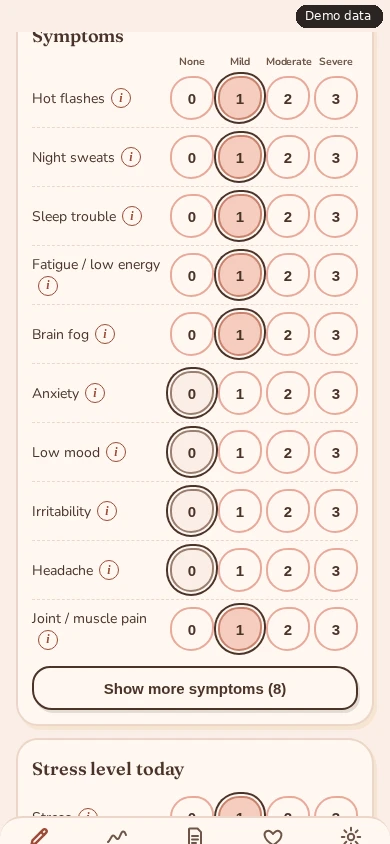
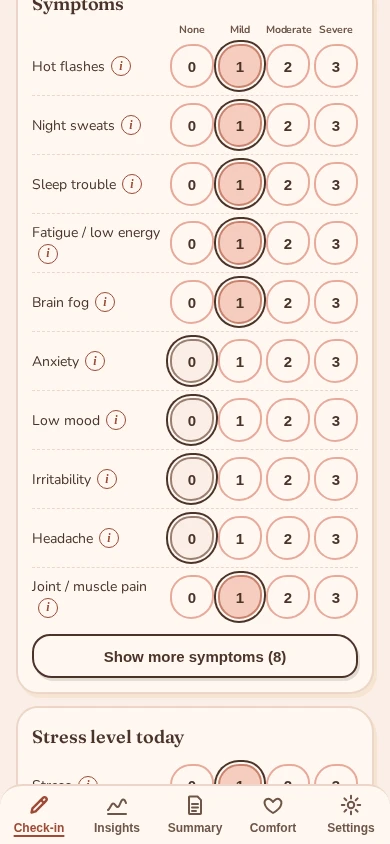
Keep a single page-level demo badge per marketing image

Changed region(s): [[0.0308, 0.0, 0.9846, 1.0], [0.0308, 0.0, 0.0615, 0.0308]]

diff --git a/sw.js b/sw.js
@@ -1,9 +1,9 @@
-// Root service worker, retired in peri-v34 (Nov 2026). The app moved to /app/ (its own SW, scope /app/).
+// Root service worker, retired in peri-v35 (Nov 2026). The app moved to /app/ (its own SW, scope /app/).
 // Older installs registered this file with scope "/" and would keep serving the old app over the landing page.
 // This version: takes over at once, deletes old root app caches, unregisters itself, and reloads open windows
 // so they get the network copy (landing page, which sends home-screen launches on to /app/).
 // It never touches localStorage, so her entries (key periTracker.v1, same origin) are untouched.
-const KEEP=['peri-v34'];// the /app/ SW's cache; nights-*/strong-* are not peri-* so untouched
+const KEEP=['peri-v35'];// the /app/ SW's cache; nights-*/strong-* are not peri-* so untouched
 self.addEventListener('install',()=>self.skipWaiting());
 self.addEventListener('activate',e=>{e.waitUntil((async()=>{
  const k=await caches.keys();await Promise.all(k.filter(x=>x.startsWith('peri-')&&!KEEP.includes(x)).map(x=>caches.delete(x)));

diff --git a/app/sw.js b/app/sw.js
@@ -1,4 +1,4 @@
-const C='peri-v34',A=['./','index.html','manifest.webmanifest','icon-192.png','icon-512.png','icon-512-maskable.png','icon-180.png','../privacy.html','../health-data.html','../terms.html','../accessibility.html','fonts/fraunces-latin.woff2','fonts/nunito-latin.woff2'];
+const C='peri-v35',A=['./','index.html','manifest.webmanifest','icon-192.png','icon-512.png','icon-512-maskable.png','icon-180.png','../privacy.html','../health-data.html','../terms.html','../accessibility.html','fonts/fraunces-latin.woff2','fonts/nunito-latin.woff2'];
 self.addEventListener('install',e=>{e.waitUntil(caches.open(C).then(c=>c.addAll(A)))});
 self.addEventListener('message',e=>{if(e.data&&e.data.type==='SKIP_WAITING')self.skipWaiting()});
 self.addEventListener('activate',e=>{e.waitUntil(caches.keys().then(k=>Promise.all(k.filter(x=>x.startsWith('peri-')&&x!==C).map(x=>caches.delete(x)))));self.clients.claim()});

diff --git a/tests/android_header_test.py b/tests/android_header_test.py
@@ -13,6 +13,8 @@ try:
    page=b.new_page(viewport={'width':width,'height':915},is_mobile=True,has_touch=True)
    requests=[];page.on('request',lambda r: requests.append(r.url))
    page.goto('http://localhost:8843/');page.evaluate('document.fonts.ready')
+   assert page.evaluate("[...document.querySelectorAll('figure.phone')].every(f=>f.querySelector('img') && f.querySelectorAll('.demo').length===1)"), 'each marketing image must have exactly one page badge'
+   assert page.evaluate("[...document.querySelectorAll('figure.phone')].every(f=>f.querySelector('.demo').getBoundingClientRect().bottom<=f.querySelector('img').getBoundingClientRect().top)"), 'page badge overlaps marketing image'
    assert page.evaluate("document.documentElement.scrollWidth<=innerWidth"),f'overflow at {width}'
    for sel in ['header .logo','header .btn']:
     assert page.locator(sel).evaluate("e=>getComputedStyle(e).whiteSpace==='nowrap'"),f'{sel} wraps at {width}'
